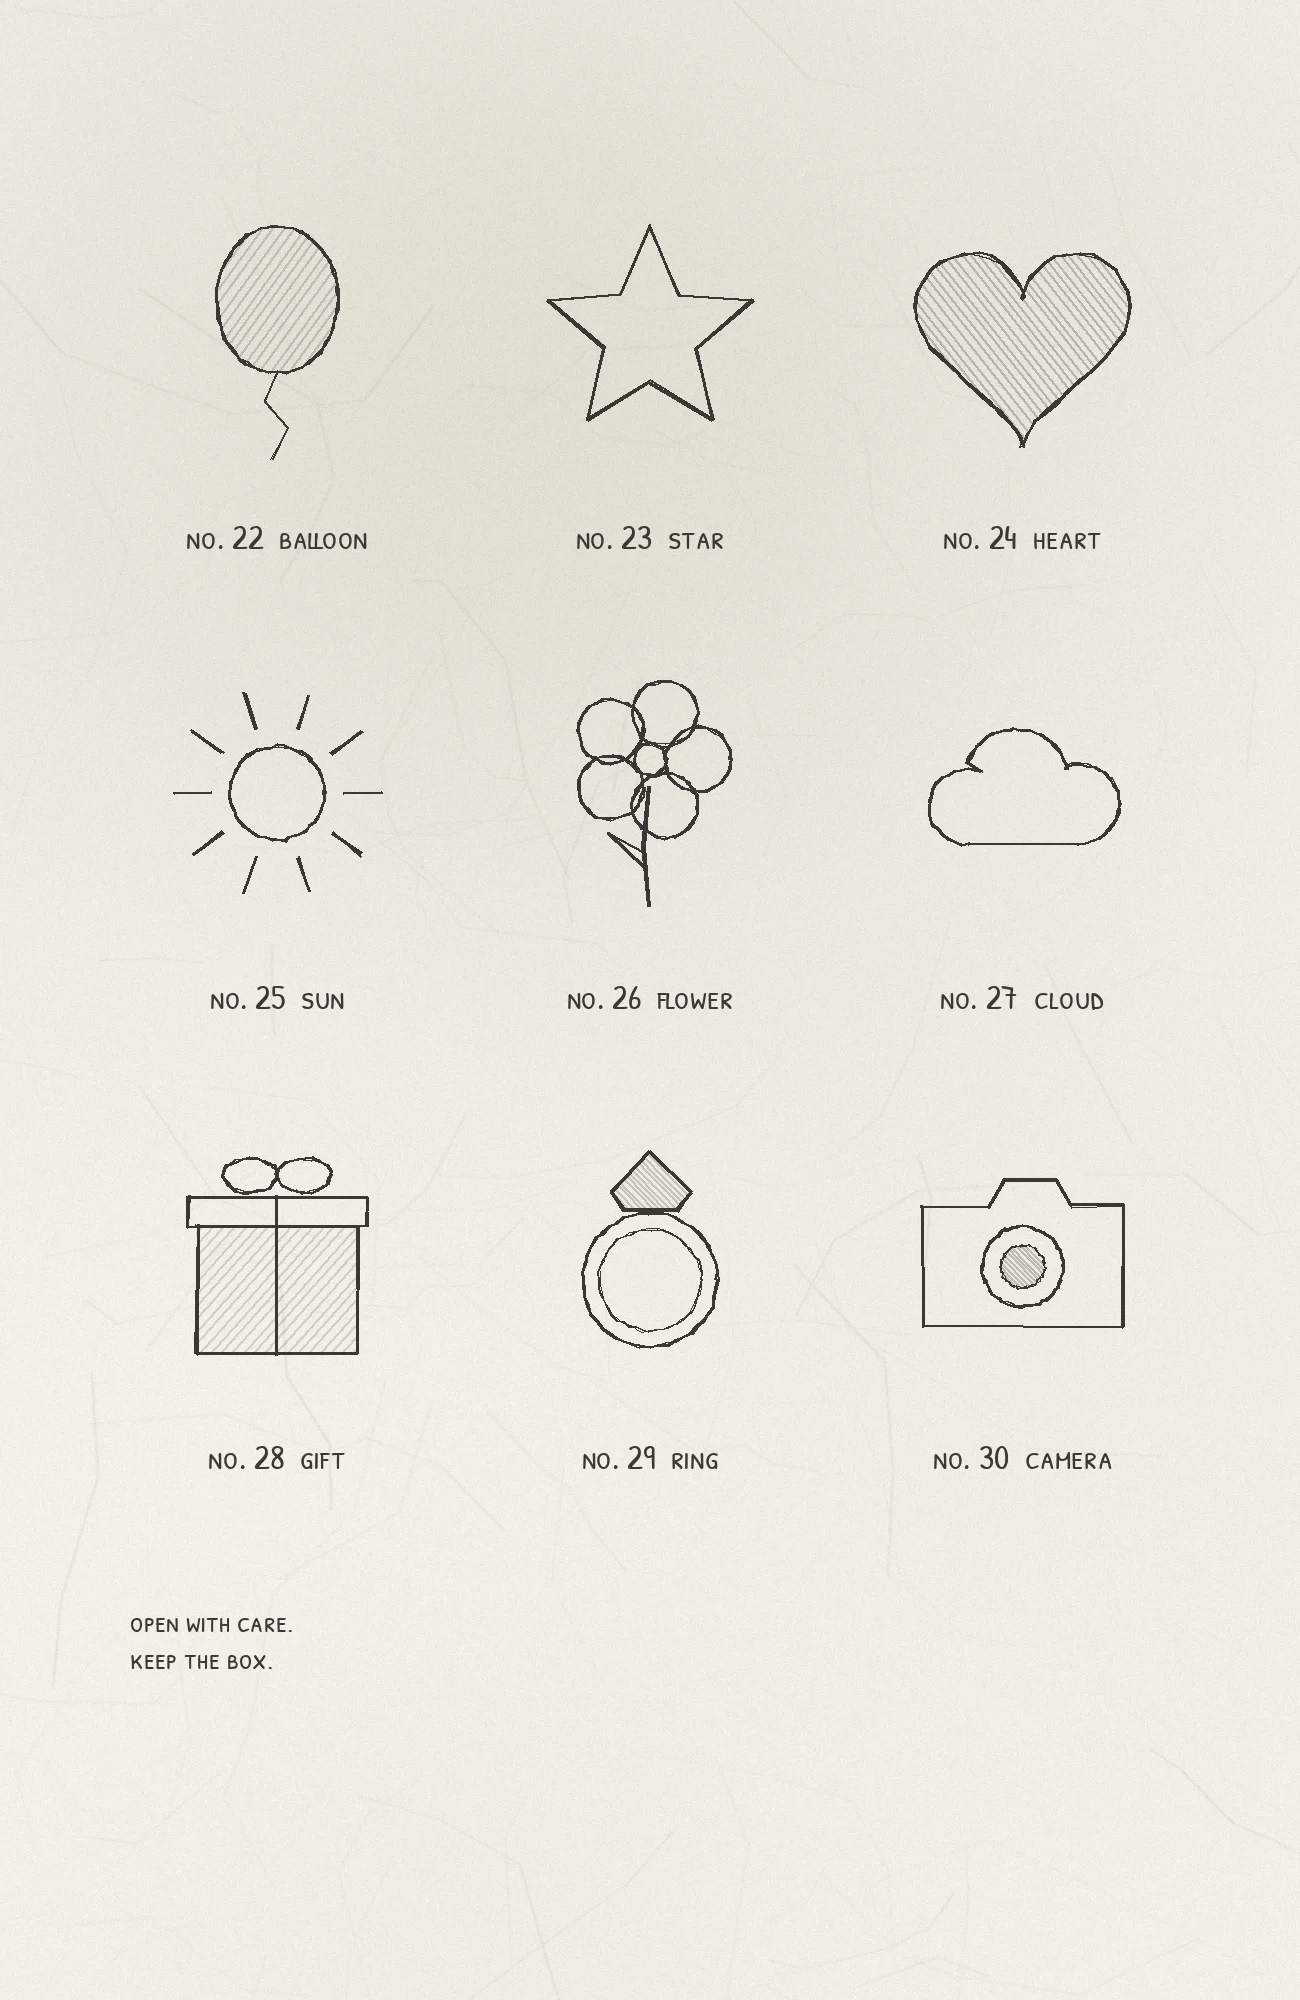
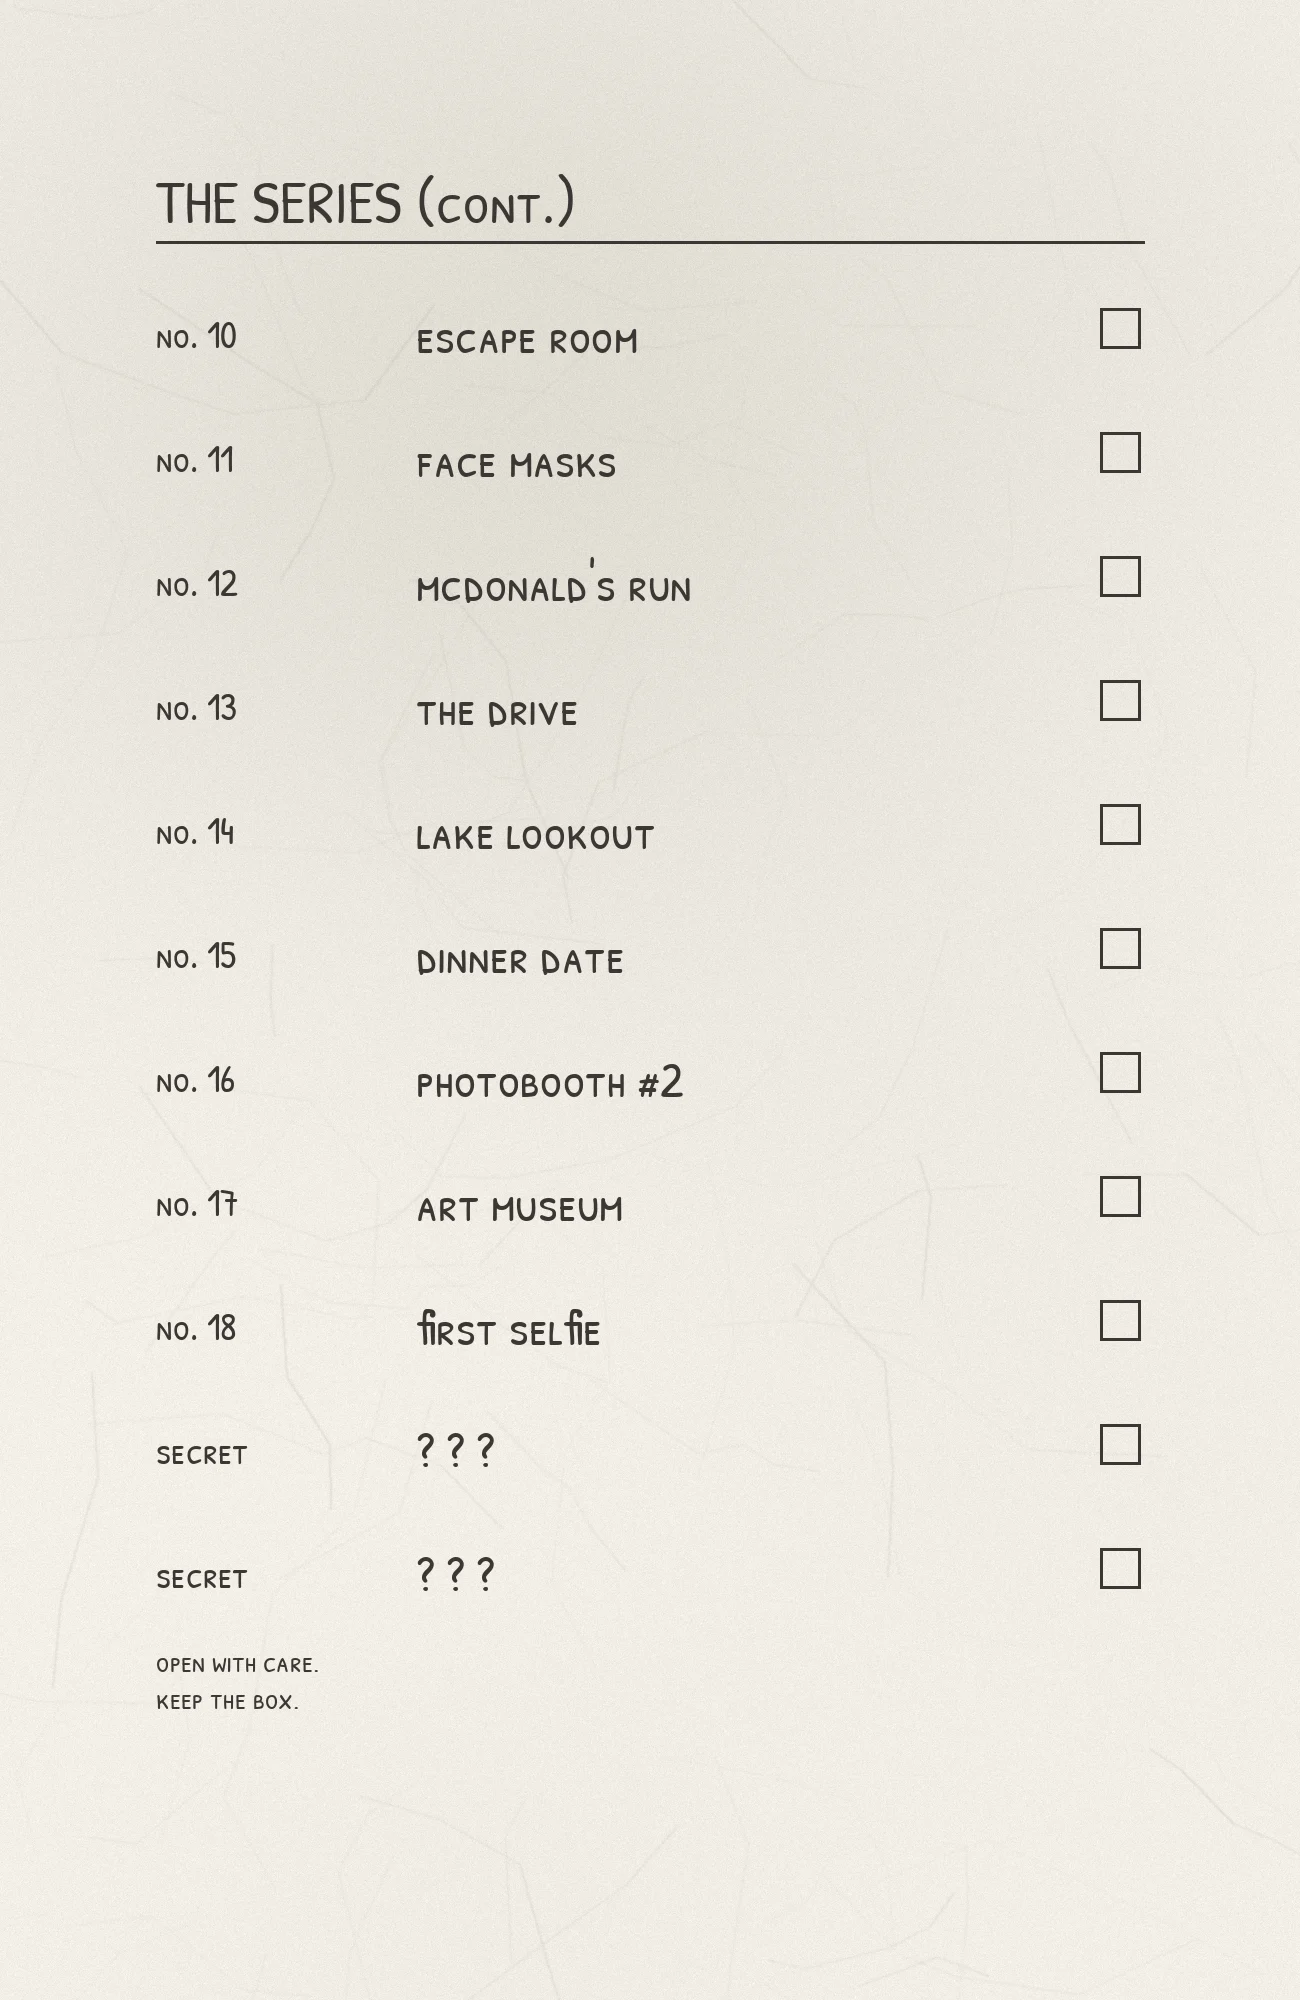
Box art: lettering only (series checklist), no drawings
Claude-Session: https://claude.ai/code/session_01NL2CSJLjtWH7qaAE7ZtJhZ

diff --git a/box.js b/box.js
@@ -131,16 +131,9 @@ function bagCanvas() {
   // tear notch arrow + "tear here" on the top seal, like the real bags' small print
   g.fillStyle = "rgba(60,58,55,0.8)"; g.font = "22px 'Patrick Hand SC', sans-serif"; g.textAlign = "center";
   g.fillText("tear here", 256, 108);
-  // line drawing: a pencil heart, and her name small
-  g.strokeStyle = "rgba(55,53,50,0.85)"; g.lineWidth = 5; g.lineJoin = g.lineCap = "round";
-  g.beginPath();
-  for (let i = 0; i <= 60; i++) {
-    const t = (i / 60) * Math.PI * 2, x = 16 * Math.sin(t) ** 3, y = -(13 * Math.cos(t) - 5 * Math.cos(2 * t) - 2 * Math.cos(3 * t) - Math.cos(4 * t));
-    const px = 256 + x * 6.2 + Math.sin(i * 1.7) * 1.5, py = 470 + y * 6.2 + Math.cos(i * 2.3) * 1.5;
-    i ? g.lineTo(px, py) : g.moveTo(px, py);
-  }
-  g.stroke();
-  g.font = "34px 'Patrick Hand SC', sans-serif"; g.fillText("for zoie", 256, 640);
+  // lettering only, no drawing
+  g.fillStyle = "rgba(55,53,50,0.85)";
+  g.font = "34px 'Patrick Hand SC', sans-serif"; g.fillText("for zoie", 256, 500);
   g.font = "20px 'Patrick Hand SC', sans-serif"; g.fillStyle = "rgba(60,58,55,0.6)";
   ["one bag of photos", "made by edward", "11.17.2026"].forEach((t, i) => g.fillText(t, 256, 860 + i * 26));
   const t = new THREE.CanvasTexture(c); t.colorSpace = THREE.SRGBColorSpace; return t;

diff --git a/tools/box/box_art.py b/tools/box/box_art.py
@@ -166,37 +166,45 @@ def scatter_stars(im, n, box, seed):
         x, y = r.uniform(x0, x1), r.uniform(y0, y1); s = r.uniform(24, 46)
         stroke(d, star_pts(x, y, s, r.uniform(-0.6, 0.6) - math.pi / 2), 3, True)
 
-# ------------------------------------------------------------------ faces
+# ------------------------------------------------------------------ faces: lettering only, no drawings
+# The series checklist. PLACEHOLDER names from the photos: Edward to rename.
+SERIES = ["prom night", "tractor day", "the fog walk", "photobooth #1", "christmas tree", "waterfall",
+          "camp out", "times square", "golf range", "escape room", "face masks", "mcdonald's run",
+          "the drive", "lake lookout", "dinner date", "photobooth #2", "art museum", "first selfie"]
+
+def text_at(d, txt, font, x, y, col=INK + (225,), anchor="la"):
+    d.text((x, y), txt, font=font, fill=col, anchor=anchor)
+
+def tick_box(d, x, y, s):
+    d.rectangle([x, y, x + s, y + s], outline=INK + (200,), width=3)
+
 def front():
     im = paper(FW, FH, 1); d = ImageDraw.Draw(im)
-    text_fit(d, "Zoie", F_MARK, FW * 0.5, FH * 0.13, FW * 0.27, canvas=im)
-    text_fit(d, "Happy Birthday", F_SCRIPT, FW * 0.5, FH * 0.222, FW * 0.66, canvas=im)
-    # the figure's place: one big pencil drawing, a gift box tied with a bow, a heart on it
-    doodle(im, "gift", FW * 0.5, FH * 0.5, FW * 0.42, w=6)
-    p = heart_pts(FW * 0.5, FH * 0.6, FW * 0.18); hatch(im, p, 8); stroke(d, p, 5)
-    # ground line under it, like the figure's little planet
-    for i in range(14):
-        y = FH * 0.835 + rng.uniform(-10, 10)
-        d.line([(FW * 0.28 + rng.uniform(0, 60), y), (FW * 0.72 - rng.uniform(0, 60), y + rng.uniform(-3, 3))], fill=INK + (rng.randint(8, 20),), width=2)
-    scatter_stars(im, 6, (FW * 0.08, FH * 0.32, FW * 0.22, FH * 0.82), 5)
-    scatter_stars(im, 6, (FW * 0.78, FH * 0.32, FW * 0.92, FH * 0.82), 6)
-    text_fit(d, "EDWARD × ZOIE × 11.17.2026", F_SC, FW * 0.5, FH * 0.915, FW * 0.70, canvas=im)
+    sc = lambda n: ImageFont.truetype(F_SC, n)
+    text_at(d, "A BLIND BOX FOR", sc(54), FW / 2, FH * 0.17, anchor="mm")
+    text_fit(d, "Zoie", F_SCRIPT, FW * 0.5, FH * 0.33, FW * 0.62, canvas=im)
+    text_fit(d, "happy birthday", F_SCRIPT, FW * 0.5, FH * 0.475, FW * 0.56, col=INK + (210,), canvas=im)
+    d.line([(FW * 0.3, FH * 0.56), (FW * 0.7, FH * 0.56)], fill=INK + (150,), width=3)
+    text_at(d, "11.17.2026", sc(64), FW / 2, FH * 0.61, anchor="mm")
+    text_at(d, f"SERIES OF {len(SERIES)} + 2 SECRET", sc(40), FW / 2, FH * 0.83, col=INK + (190,), anchor="mm")
+    text_at(d, "EDWARD × ZOIE", sc(46), FW / 2, FH * 0.915, anchor="mm")
     return im
 
-def grid_face(kinds, cols, rows, y0, y1, seed, start_no):
+def list_face(seed, title, items, start, secrets=0, foot=None):
     im = paper(FW, FH, seed); d = ImageDraw.Draw(im)
-    f = ImageFont.truetype(F_SC, 34)
-    cw = FW * 0.86 / cols; ch = (y1 - y0) / rows
-    for i, k in enumerate(kinds[: cols * rows]):
-        c, r = i % cols, i // cols
-        cx = FW * 0.07 + cw * (c + 0.5); cy = y0 + ch * r
-        doodle(im, k, cx, cy + ch * 0.42, min(cw, ch) * 0.36)
-        lab = f"no. {start_no + i:02d}  {LABEL[k]}"
-        bb = d.textbbox((0, 0), lab, font=f); d.text((cx - (bb[2] - bb[0]) / 2, cy + ch * 0.81), lab, font=f, fill=INK + (215,))
+    big, f, num = ImageFont.truetype(F_SC, 60), ImageFont.truetype(F_SC, 50), ImageFont.truetype(F_SC, 38)
+    x0, x1 = FW * 0.12, FW * 0.88
+    text_at(d, title, big, x0, FH * 0.08)
+    d.line([(x0, FH * 0.08 + 82), (x1, FH * 0.08 + 82)], fill=INK + (160,), width=3)
+    y, step = FH * 0.15, FH * 0.062
+    rows = [(f"no. {start + i:02d}", t) for i, t in enumerate(items)] + [("secret", "? ? ?")] * secrets
+    for n, t in rows:
+        text_at(d, n, num, x0, y + 8, col=INK + (170,))
+        text_at(d, t, f, x0 + FW * 0.2, y)
+        tick_box(d, x1 - 44, y + 8, 40)
+        y += step
+    if foot: small_print(d, x0, FH * 0.82, foot)
     return im, d
-
-_r = random.Random(11)
-GRID = _r.sample(KINDS, 9) + _r.sample(KINDS, 12) + _r.sample(KINDS, 9)     # no repeats on one face
 
 def small_print(d, x, y, lines, size=30):
     f = ImageFont.truetype(F_SC, size)
@@ -209,17 +217,20 @@ def barcode(d, x, y, w=300, h=110):
     f = ImageFont.truetype(F_SC, 28); d.text((x + 10, y + h + 6), "1 117 2026 0 0001", font=f, fill=INK + (220,))
 
 def right():
-    im, d = grid_face(GRID[0:9], 3, 3, FH * 0.07, FH * 0.76, 2, 1)
-    small_print(d, FW * 0.1, FH * 0.8, ["one bag of photos inside.", "nobody knows which ones", "until it's opened."])
-    return im
-def back():
-    im, d = grid_face(GRID[9:21], 4, 3, FH * 0.07, FH * 0.70, 3, 10)
-    small_print(d, FW * 0.09, FH * 0.75, ["CONTENTS: OUR PHOTOS", "FOR: ZOIE", "FROM: EDWARD", "AGES: ONLY HER"])
-    barcode(d, FW * 0.6, FH * 0.76)
+    im, d = list_face(2, "THE SERIES", SERIES[0:9], 1)
     return im
 def left():
-    im, d = grid_face(GRID[21:30], 3, 3, FH * 0.07, FH * 0.76, 4, 22)
-    small_print(d, FW * 0.1, FH * 0.8, ["open with care.", "keep the box."])
+    im, d = list_face(4, "THE SERIES (cont.)", SERIES[9:18], 10, secrets=2, foot=["open with care.", "keep the box."])
+    return im
+def back():
+    im = paper(FW, FH, 3); d = ImageDraw.Draw(im)
+    sc = lambda n: ImageFont.truetype(F_SC, n)
+    text_at(d, "HOW IT WORKS", sc(60), FW * 0.12, FH * 0.08)
+    d.line([(FW * 0.12, FH * 0.08 + 82), (FW * 0.88, FH * 0.08 + 82)], fill=INK + (160,), width=3)
+    lines = ["one bag inside.", "nobody knows which photos", "until it's opened.", "", "lift the lid,", "pull out the bag,", "tear the top."]
+    for i, t in enumerate(lines): text_at(d, t, sc(52), FW * 0.12, FH * 0.17 + i * 80)
+    small_print(d, FW * 0.12, FH * 0.75, ["CONTENTS: OUR PHOTOS", "FOR: ZOIE", "FROM: EDWARD", "AGES: ONLY HER"])
+    barcode(d, FW * 0.58, FH * 0.76)
     return im
 def top():
     im = paper(FW, FW, 5); d = ImageDraw.Draw(im)
